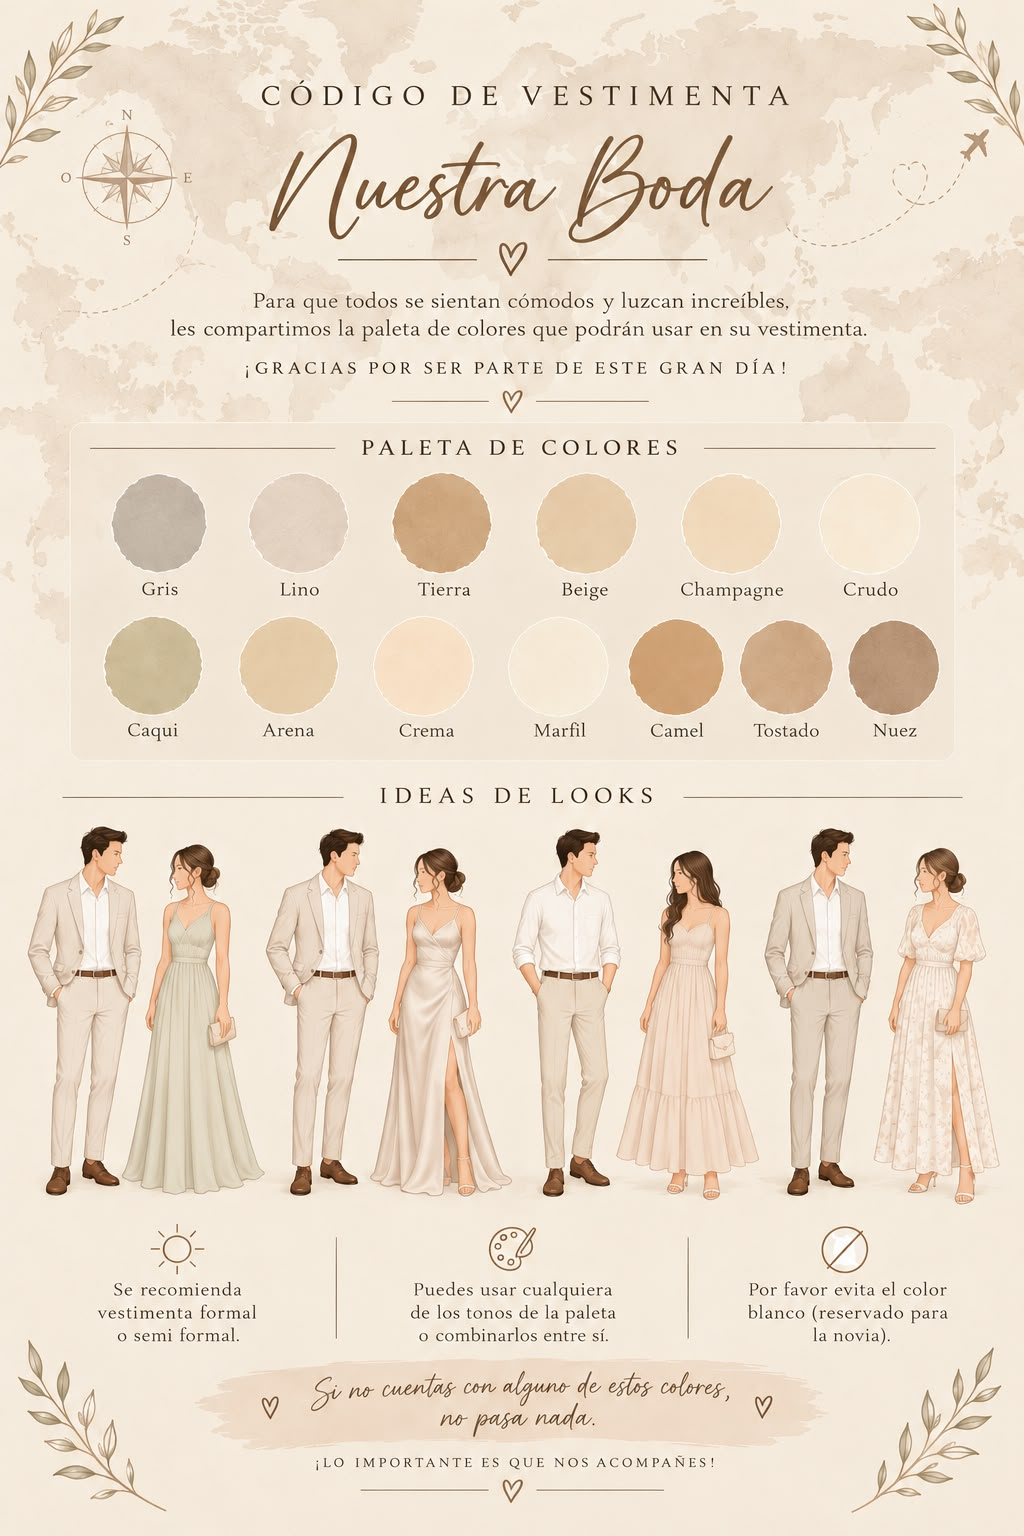
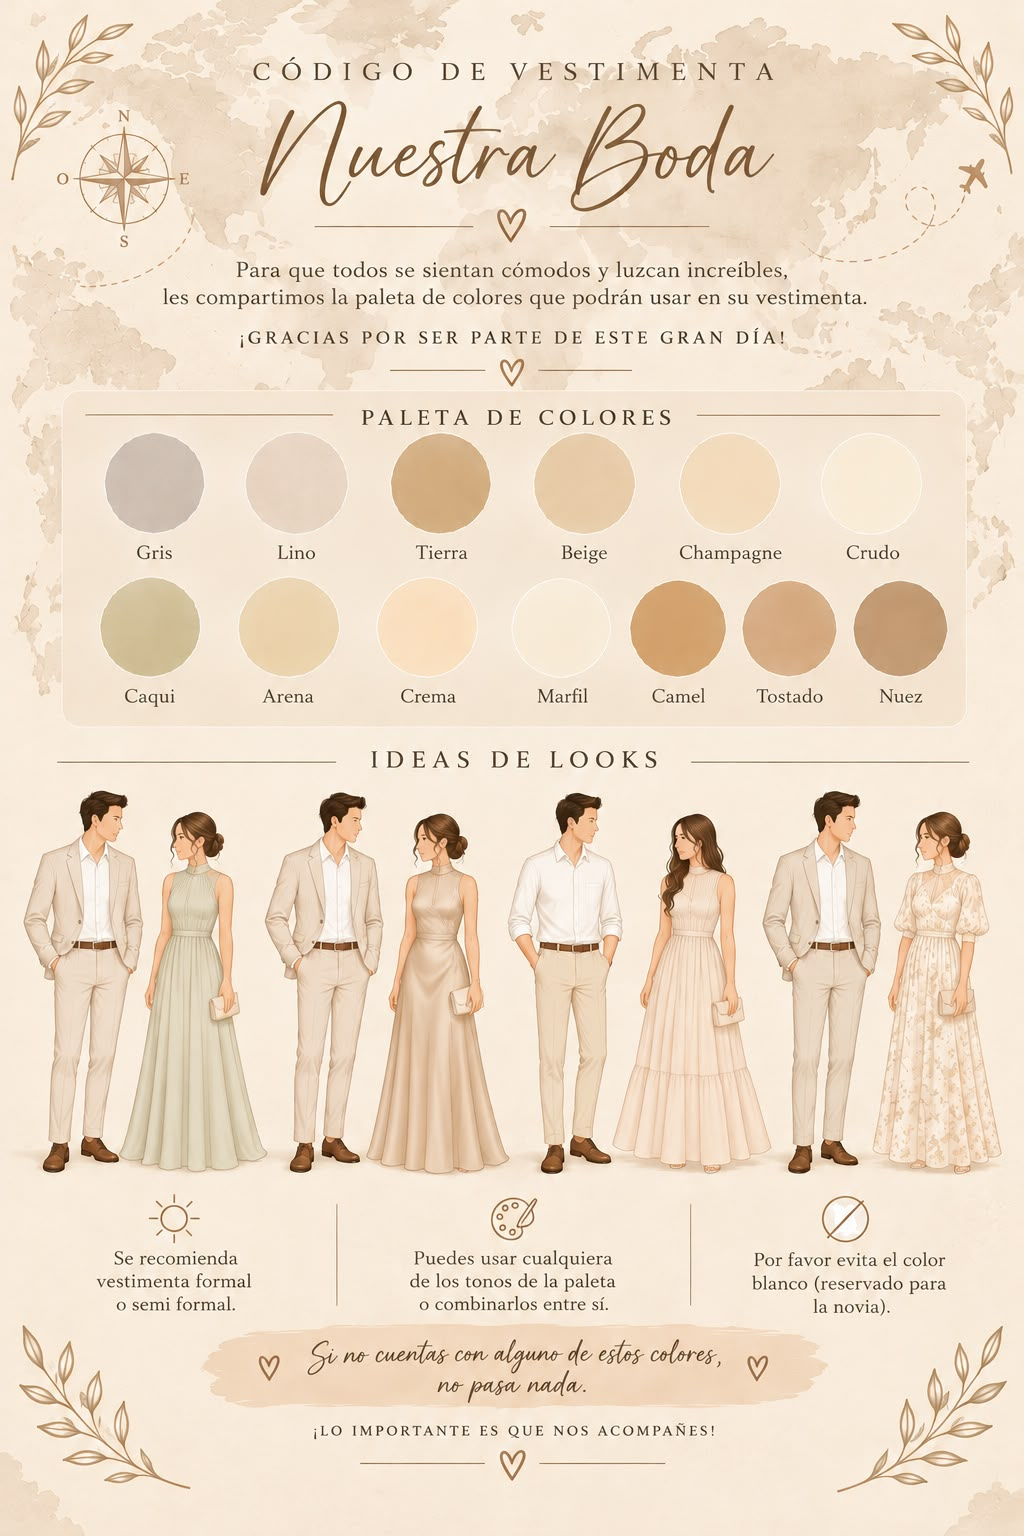
Cambios en mensaje

diff --git a/index.html b/index.html
@@ -994,8 +994,7 @@
     <br>
     <h2 class="serif">¡CON MUCHA ALEGRÍA!</h2>
     <p>
-      y con la bendición de Dios y nuestras familias, queremos invitarte a celebrar
-      con nosotros nuestra boda.
+      queremos invitarte a celebrar con nosotros nuestra boda.
     </p>
   </div>
   <div class="divisor-olivo" style="margin-top:56px;" aria-hidden="true">
@@ -1041,7 +1040,7 @@
     <h2 class="serif">CUÁNDO Y DÓNDE</h2>
     <div class="fecha-hora-bloque">
       <p style="font-family: 'Fraunces', serif; font-size: 1.3rem; color: var(--dorado); margin-bottom: 8px;">Sábado, 23 de Enero de 2027</p>
-      <p>Recepción: 12:00 PM</p>
+      <p>Recepción: 12:30 PM</p>
     </div>
   </div>
   <div class="divisor-olivo" style="margin-top:44px;" aria-hidden="true">
@@ -1077,7 +1076,7 @@
 <section class="regalos reveal-derecha" id="regalos">
   <div class="wrap">
 
-    <p class="intro-regalos">Tu presencia es importante para nosotros, pero si gustas bendecirnos están estas opciones:</p>
+    <p class="intro-regalos">Tu presencia es el mejor regalo para nosotros, pero si gustas bendecirnos están estas opciones:</p>
 
     <!-- Opción 1: Mesa de regalos de Liverpool -->
     <div class="tarjeta">
@@ -1093,7 +1092,7 @@
 
     <!-- Opción 2: Donativo en sobre o transferencia -->
     <div class="tarjeta">
-      <h3>Muestras de cariño y donativos</h3>
+      <h3>Donativos</h3>
       <p style="margin-bottom: 12px;">El día del evento tendremos sobres disponibles en la recepción, o si gustas hacer transferencia sería a este número:</p>
       <p class="dato">Banco: <strong>Santander</strong></p>
       <p class="dato">Titular: <strong>Juan Antonio Reyes Santana</strong></p>
@@ -1186,7 +1185,7 @@
     return {
       titulo:           plural ? "¿Nos acompañan?" : "¿Nos acompañas?",
       si:               plural ? "¡Claro que sí, ahí estaremos!" : "¡Claro que sí, ahí estaré!",
-      no:               plural ? "No podremos asistir" : "No podré asistir",
+      no:               plural ? "Lo sentimos no podremos asistir" : "Lo siento no podré asistir",
       confirmadaTitulo: plural ? "Su asistencia quedó confirmada" : "Tu asistencia quedó confirmada",
       confirmadaTexto:  plural ? "¡Nos dará mucho gusto el poder verles!" : "¡Nos dará mucho gusto el poder verte!",
       rechazoTitulo:    plural ? "Gracias por su respuesta" : "Gracias por tu respuesta",
